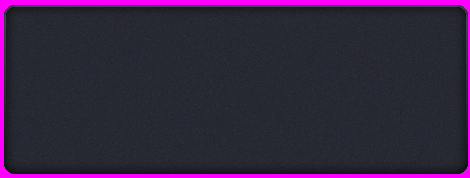
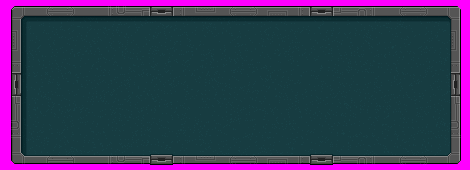
remade the chat box.

diff --git a/GameClient/src/log/LogHandler.java b/GameClient/src/log/LogHandler.java
@@ -2,58 +2,78 @@ package log;
 
 import java.awt.BorderLayout;
 import java.awt.Color;
+import java.awt.Container;
+import java.awt.Dimension;
 import java.awt.Font;
+import java.awt.FontFormatException;
 import java.awt.Graphics;
+import java.awt.Graphics2D;
+import java.awt.GraphicsEnvironment;
+import java.awt.Image;
 import java.awt.Insets;
+import java.awt.Rectangle;
+import java.awt.RenderingHints;
+import java.io.File;
+import java.io.IOException;
+import java.net.URL;
+import java.util.TimerTask;
 
 import javax.print.attribute.AttributeSet;
 import javax.swing.BorderFactory;
 import javax.swing.BoxLayout;
+import javax.swing.ImageIcon;
+import javax.swing.JButton;
+import javax.swing.JColorChooser;
+import javax.swing.JComponent;
 import javax.swing.JLabel;
 import javax.swing.JPanel;
 import javax.swing.JScrollBar;
 import javax.swing.JScrollPane;
 import javax.swing.JTextArea;
+import javax.swing.JTextField;
 import javax.swing.JTextPane;
 import javax.swing.ScrollPaneConstants;
+import javax.swing.SpringLayout;
+import javax.swing.SwingConstants;
+import javax.swing.SwingUtilities;
 import javax.swing.border.CompoundBorder;
 import javax.swing.border.EmptyBorder;
 import javax.swing.border.LineBorder;
+import javax.swing.plaf.basic.BasicScrollBarUI;
 import javax.swing.text.BadLocationException;
 import javax.swing.text.DefaultStyledDocument;
 import javax.swing.text.SimpleAttributeSet;
 import javax.swing.text.Style;
 import javax.swing.text.StyleConstants;
 import javax.swing.text.StyleContext;
+import javax.swing.text.StyledDocument;
 
 import ca.nicho.foundation.SpriteSheet;
 
 public class LogHandler extends JPanel{
 	
-	TransparentTextArea textArea;
+	TransparentTextArea textPane;
 	
 	private final static int TYPE_SERVER = 0;
 	private final static int TYPE_TUTORIAL = 2;
 	private final static int TYPE_GUIDE = 3;
+	private final static String font = "fonts/coders_crux.ttf";
 	
 	public LogHandler(){
 		setLayout(new BorderLayout());
 		setOpaque(false);
 
 
-			textArea = new TransparentTextArea();
-			textArea.setEnabled(false);
+		textPane = new TransparentTextArea();
+		textPane.setEnabled(false);
 			
-			    
-		/*
-		textArea.setWrapStyleWord(true);
-		textArea.setLineWrap(true);
-		*/
-        JScrollPane scroll = new JScrollPane (textArea, 
+        JScrollPane scroll = new JScrollPane (textPane, 
                 JScrollPane.VERTICAL_SCROLLBAR_AS_NEEDED, JScrollPane.HORIZONTAL_SCROLLBAR_NEVER);
-        scroll.setBorder(new EmptyBorder(8, 20, 8, 10));
+        scroll.setBorder(new EmptyBorder(18, 30, 15, 25));
         scroll.setOpaque(false);
         scroll.getViewport().setOpaque(false);
+        scroll.getVerticalScrollBar().setUI(new MyScrollbarUI());
+	        
      
         add(scroll, BorderLayout.CENTER);
 	
@@ -68,7 +88,18 @@ public class LogHandler extends JPanel{
 	public void addToLog(String text, int type){
 
 
-		Font font = new Font("Sans", Font.PLAIN, 16);
+		   Font customFont;
+		try {
+			customFont = Font.createFont(Font.TRUETYPE_FONT, new File(font)).deriveFont(26f);
+	        textPane.setFont(customFont);
+		} catch (FontFormatException | IOException e1) {
+			// TODO Auto-generated catch block
+			e1.printStackTrace();
+		}
+
+
+
+
 		switch(type){
 			case(TYPE_SERVER):
 				break;
@@ -78,35 +109,98 @@ public class LogHandler extends JPanel{
 				break;
 		}
 
-        textArea.setFont(font);
-
-		try {
-			textArea.getDocument().insertString(0, text+'\n', null);
+		try {    
+			textPane.getDocument().insertString(0, text+"\n", null);
 		} catch (BadLocationException e) {
 			// TODO Auto-generated catch block
 			e.printStackTrace();
 		}
-		
 	}
+	
+
 	
 	public class TransparentTextArea extends JTextPane {
 
         public TransparentTextArea() {
+        	super();
             setOpaque(false);
-            setBorder(new EmptyBorder(5, 5, 5, 5));  
+            setBorder(new EmptyBorder(5, 5, 5, 5));
         }
 
         @Override
         protected void paintComponent(Graphics g) {
-            g.setColor(new Color(0, 0, 0, 0));
+            super.paintComponent(g);
+            g.setColor(new Color(255, 0, 255, 0));
             Insets insets = getInsets();
             int x = insets.left;
             int y = insets.top;
             int width = getWidth() - (insets.left + insets.right);
             int height = getHeight() - (insets.top + insets.bottom);
             g.fillRect(x, y, width, height);
-            super.paintComponent(g);
+
+        	
         }
 
     }
+
+	
+	 class MyScrollbarUI extends BasicScrollBarUI {
+
+	        private ImageIcon downArrow, upArrow, bar;
+
+	        public MyScrollbarUI(){
+	            upArrow = new ImageIcon("res/ic_thumb_up.png","up");
+				downArrow = new ImageIcon("res/ic_thumb_down.png","down");
+				bar = new ImageIcon("res/ic_bar.png","bar");        
+	        }
+
+	        @Override
+	        protected JButton createDecreaseButton(int orientation) {
+	            JButton button = new JButton(upArrow){
+	                @Override
+	                public Dimension getPreferredSize() {
+	  
+	                    return new Dimension(16, 14);
+	                }
+	            };
+	            button.setOpaque(false);
+	            button.setContentAreaFilled(false);
+	            button.setBorderPainted(false);
+	            return button;
+	        }
+
+	        @Override
+	        protected JButton createIncreaseButton(int orientation) {
+	            JButton button = new JButton(downArrow){
+	                @Override
+	                public Dimension getPreferredSize() {
+	                    return new Dimension(16, 14);
+	                }
+	            };
+	            button.setOpaque(false);
+	            button.setContentAreaFilled(false);
+	            button.setBorderPainted(false);
+	            return button;
+	        }
+
+
+	        @Override
+	        protected void paintTrack(Graphics g, JComponent c, Rectangle r) {
+	        	c.setBackground(new Color(0, 0, 0, 24));
+	        	//c.setOpaque(false);
+	        }
+	        
+	        @Override
+	        protected void paintThumb(Graphics g, JComponent c, Rectangle r) {
+	        	Image a = bar.getImage();
+	        	a.getScaledInstance(16, thumbRect.y, Image.SCALE_FAST);
+	        	g.drawImage(a, thumbRect.x, thumbRect.y, null);
+	        }
+
+	        @Override
+	        protected void setThumbBounds(int x, int y, int width, int height) {
+	          super.setThumbBounds(x, y, width, height);
+	          scrollbar.repaint();
+	        }
+	    }    
 }
